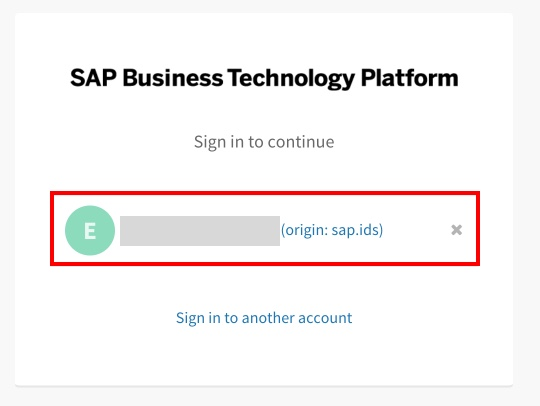
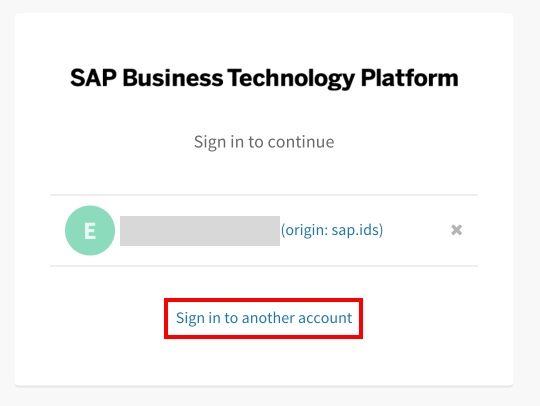
update for ASUG techedlcap

Changed region(s): [[0.0889, 0.4433, 0.8889, 0.6798], [0.2963, 0.7094, 0.6815, 0.8571]]

diff --git a/exercises/ex2.1/README.md b/exercises/ex2.1/README.md
@@ -15,55 +15,80 @@ as SAP Build Apps.
 <img src="images/image1.png"
 style="width:6.34722in;height:6.65278in" />
 
-2.  During the deployment a new page will be opened to to sign into
-    Cloud Foundry.
+2. You will be prompted for several build configuration values:
 
-- Select **SSO Passcode** for the authentication methos
+- For UI5 Version, select the latest (currently **1.130.0**)
 
-- Click on the link **Open a new browser page to generate your SSO passcode**. A new browser window will open.
+<img src="images/image3.jpg" />
+
+- For UI5 Theme, select **sap_fiori_3**
+
+<img src="images/image4.jpg" />
+
+- For Vendor Dependency, select **No**.
+
+<img src="images/image5.jpg" />
+
+- For Build Code Service Plan, select **No**.
+
+<img src="images/image6.jpg" />
+
+3. Building the app will take a minute or two. After building the app, a new tab will be opened to to sign into Cloud Foundry for deployment.
+
+- Select **SSO Passcode** for the authentication methods
+
+- Click on the link **Open a new browser page to generate your SSO passcode**. A new browser tab will open.
 
 <img src="images/image16.jpg" />
 
-3. Log into your account
+4. If you are prompted to login using sap.ids, select **Sign in to another account** (you may not be prompted for this).
 
 <img src="images/image17.jpg" />
 
-4. Copy the Temporary Authentication Code.
+4. Log into the cloud foundry environment:
+
+- For the origin key of the alternate identity provider, enter **lcap-platform**
+
+- Select **Sign in with alternate identity provider**
+
+<img src="images/image2.jpg" />
+
+5. Copy the Temporary Authentication Code.
 
 <img src="images/image18.jpg" />
 
-5.  Paste the Code and Sign In.
+6.  Paste the code and Sign In.
 
 <img src="images/image19.jpg" />
 
-6.  Select your trial Organization and Space, and click **Apply** (your organization will be different than shown here).
+7. Set the Cloud Foundry deployment target:
+
+- For Cloud Foundry Organization, select **TechEdLCAP_lcapteched**
+
+- For Cloud Foundry Space, select **dev**
+
+- Click **Apply**
 
 <img src="images/image20.jpg" />
 
-7. After the successful deployment (May take several minutes) you will
-    find the link of the deployed application in the terminal.
+8. After the successful deployment (may take several minutes) the terminal will indicate that the Build/Deploy task has completed and that your service is discoverable.
 
-- Use Ctrl+click to try it out!
+<img src="images/image7.jpg" />
+
+9. Near the bottom of the terminal, there will be a link **Project Overview URL**. This link will allow you to access the deployed application UI and services.
+
+- Use **Ctrl+Click** (PC) or **Cmd+Click** (Mac) to try it out!
 
 <img src="images/image21.jpg" />
 
-8. Explore the UIs that you have created
+10. Explore the UIs that you have created
 
 <img src="images/image14.jpeg" style="width:6.5in;height:3.74375in" />
 
-9. Select Go in each of the tiles (Customers, Purchases. Redemptions)
+11. Select Go in each of the tiles (Customers, Purchases. Redemptions)
     in the Customer Loyal UI to see the generated data.
 
 <img src="images/image15.png" style="width:6.5in;height:3.03056in" />
-
-10. You may also access your UI through the subaccount by selecting **HTML5 Applications** and clicking **customer_loyalty_xxxLaunchpad**.
-
-<img src="images/image22.jpg" />
-
-> [!IMPORTANT]
-> When apps in a trial account are idle for some time, they may be stopped automatically. If your app seems unresponsive, you may need to restart it. To restart your app, navigate to the the subaccount and select **Cloud Foundry > Spaces**, enter the **dev** space, and check the application **customer_loyalty_xxx-srv**. If is is stopped, simply click the start button. Note that you should not restart the customer_loyalty_xxx-db-deployer app.
-
-<img src="images/startapp.jpg" />
 
 Congratulations! You have used the generative AI capabilities of Joule
 in SAP Build Code, to create a CAP service for a customer loyalty
